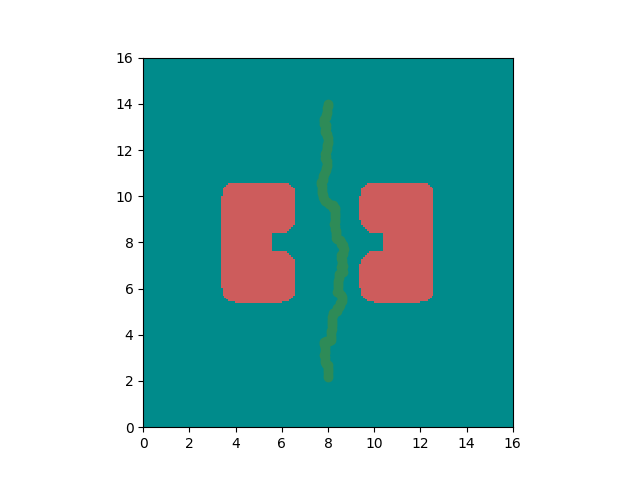
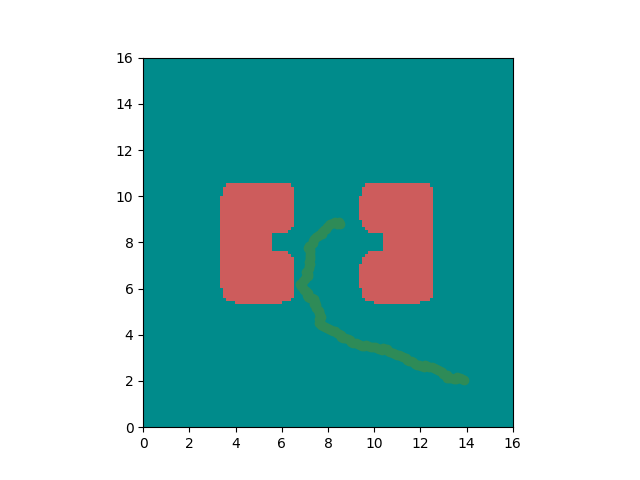
Decentralized planner: add wait, replan, and safety cap for multi-agent dynamic obstacle avoidance

Changed region(s): [[0.4375, 0.1875, 0.75, 0.8125]]

diff --git a/ws/hw8/MyCentralPlanner.cpp b/ws/hw8/MyCentralPlanner.cpp
@@ -43,21 +43,16 @@ amp::MultiAgentPath2D MyCentralPlanner::plan(const amp::MultiAgentProblem2D& pro
 
 amp::MultiAgentPath2D MyDecentralPlanner::plan(const amp::MultiAgentProblem2D& problem) {
     amp::MultiAgentPath2D multi_agent_path;
-    
-    // For decentralized planning, each agent plans independently
-    // This is a basic implementation - more advanced versions would consider
-    // dynamic obstacles, priority ordering, and replanning
-    
+
+    // Sequential planning with dynamic obstacle avoidance:
+    // Each agent plans in order, treating higher-priority agents' planned paths as dynamic obstacles (occupancy at each time step)
+    std::vector<amp::Path2D> planned_paths;
+
     for (size_t agent_idx = 0; agent_idx < problem.agent_properties.size(); ++agent_idx) {
         const auto& agent = problem.agent_properties[agent_idx];
-        
-        // Debug: Print agent radius for decentralized planner
         std::cout << "Decentralized Agent " << agent_idx << " radius: " << agent.radius << std::endl;
-        
-        // Create C-space for this agent 
-        // Use moderate resolution for decentralized planning (faster)
+
         std::size_t grid_resolution = std::max(40, std::min(120, (int)(80.0 / agent.radius)));
-        
         amp::MyTranslationalCSpace cspace(
             grid_resolution, grid_resolution,
             problem.x_min, problem.x_max,
@@ -65,12 +60,85 @@ amp::MultiAgentPath2D MyDecentralPlanner::plan(const amp::MultiAgentProblem2D& p
             problem.obstacles,
             agent.radius
         );
-        
-        // Plan path using C-space (which internally uses MyGoalBiasRRT)
+
+        // Plan initial path (ignoring dynamic obstacles)
         amp::Path2D agent_path = cspace.planPath(agent.q_init, agent.q_goal);
-        
-        multi_agent_path.agent_paths.push_back(agent_path);
+
+        // Dynamic obstacle avoidance: check for collisions with higher-priority agents at each time step
+        // If collision, wait at current position until path is clear
+        amp::Path2D safe_path;
+        size_t t = 0;
+        size_t max_other_len = 0;
+        for (const auto& p : planned_paths) max_other_len = std::max(max_other_len, p.waypoints.size());
+        size_t max_steps = std::max(agent_path.waypoints.size(), max_other_len);
+        Eigen::Vector2d last_pos = agent.q_init;
+    const size_t max_time_steps = 1000;
+    const size_t max_wait_steps = 50; // max consecutive waits before replanning
+    size_t time_steps = 0;
+    size_t wait_steps = 0;
+    bool exceeded_time_limit = false;
+    Eigen::Vector2d replan_start = agent.q_init;
+    while (t < max_steps) {
+            // Get agent's intended position at this time step
+            Eigen::Vector2d intended_pos = (t < agent_path.waypoints.size()) ? agent_path.waypoints[t] : agent_path.waypoints.back();
+
+            // Check for collision with any higher-priority agent at this time step
+            bool collision = false;
+            for (size_t other_idx = 0; other_idx < planned_paths.size(); ++other_idx) {
+                const auto& other_path = planned_paths[other_idx];
+                Eigen::Vector2d other_pos = (t < other_path.waypoints.size()) ? other_path.waypoints[t] : other_path.waypoints.back();
+                double dist = (intended_pos - other_pos).norm();
+                double min_dist = agent.radius + problem.agent_properties[other_idx].radius + 0.1; // increased buffer for safety
+                if (dist < min_dist) {
+                    collision = true;
+                    break;
+                }
+            }
+
+            if (collision) {
+                // Wait at last safe position for an extra time step (do not advance t)
+                safe_path.waypoints.push_back(last_pos);
+                ++wait_steps;
+                // If waited too long, replan from current position
+                if (wait_steps >= max_wait_steps) {
+                    std::cout << "[INFO] Agent " << agent_idx << " replanning from stuck position after " << wait_steps << " waits.\n";
+                    // Replan from last_pos to goal, using updated C-space
+                    agent_path = cspace.planPath(last_pos, agent.q_goal);
+                    t = 0;
+                    max_other_len = 0;
+                    for (const auto& p : planned_paths) max_other_len = std::max(max_other_len, p.waypoints.size());
+                    max_steps = std::max(agent_path.waypoints.size(), max_other_len);
+                    wait_steps = 0;
+                    // Optionally, clear safe_path and start a new one, or append to existing
+                    // Here, we append to existing so the full trajectory is preserved
+                    continue;
+                }
+            } else {
+                // Move to intended position
+                safe_path.waypoints.push_back(intended_pos);
+                last_pos = intended_pos;
+                ++t; // Only advance time if agent moves
+                wait_steps = 0; // reset wait counter
+            }
+            ++time_steps;
+            if (time_steps > max_time_steps) {
+                exceeded_time_limit = true;
+                std::cerr << "[ERROR] Agent " << agent_idx << " exceeded max time steps (" << max_time_steps << ") in decentralized planner. Marking path as invalid.\n";
+                break;
+            }
+            // If reached goal and no other agents are moving, can break early
+            bool all_others_done = true;
+            for (const auto& p : planned_paths) {
+                if (t < p.waypoints.size()) { all_others_done = false; break; }
+            }
+            if (t >= agent_path.waypoints.size() && all_others_done) break;
+        }
+        if (exceeded_time_limit) {
+            safe_path.valid = false;
+            multi_agent_path.valid = false;
+        }
+        planned_paths.push_back(safe_path);
+        multi_agent_path.agent_paths.push_back(safe_path);
     }
-    
     return multi_agent_path;
 }

diff --git a/ws/hw8/main.cpp b/ws/hw8/main.cpp
@@ -26,19 +26,19 @@ int main(int argc, char** argv) {
     std::vector<std::vector<Eigen::Vector2d>> collision_states;
 
     // Solve using a centralized approach
-    MyCentralPlanner central_planner;
-    path = central_planner.plan(problem);
+    MyDecentralPlanner decentral_planner;
+    path = decentral_planner.plan(problem);
     bool isValid = HW8::check(path, problem, collision_states);
     Visualizer::makeFigure(problem, path, collision_states);
 
     // Solve using a decentralized approach
-   // MyDecentralPlanner decentral_planner;
+    // MyDecentralPlanner decentral_planner;
     //collision_states = {{}};
     //W8::generateAndCheck(decentral_planner, path, problem, collision_states);
     //Visualizer::makeFigure(problem, path, collision_states);
 
     // Visualize and grade methods
     Visualizer::saveFigures();
-   // HW8::grade<MyCentralPlanner, MyDecentralPlanner>("firstName.lastName@colorado.edu", argc, argv, std::make_tuple(), std::make_tuple());
+    // HW8::grade<MyCentralPlanner, MyDecentralPlanner>("firstName.lastName@colorado.edu", argc, argv, std::make_tuple(), std::make_tuple());
     return 0;
 }
